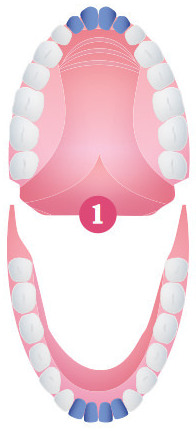
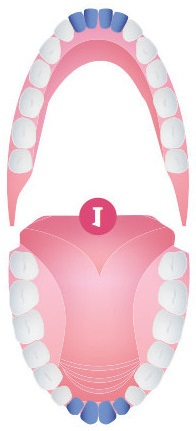
Added info panes
Added info panes

diff --git a/parcial/parcial.html b/parcial/parcial.html
@@ -243,7 +243,38 @@
         requestAnimationFrame(animate);
       }
 
-      function dientesIncisivos() {}
+      function dientesIncisivos() {
+        var Dgeometry = new THREE.PlaneGeometry(24, 53, 1, 1);
+        //create texture
+        var Dtexture = new THREE.TextureLoader().load("./img/incisivos.jpg");
+        var Dmaterial = new THREE.MeshBasicMaterial({
+          map: Dtexture,
+          side: THREE.DoubleSide,
+        });
+        var Dplane = new THREE.Mesh(Dgeometry, Dmaterial);
+        Dplane.position.set(60, 25, -10);
+
+        var Igeometry = new THREE.PlaneGeometry(102, 51, 1, 1);
+        //create texture
+        var Itexture = new THREE.TextureLoader().load(
+          "./img/dataincisivos.jpg"
+        );
+        Itexture.wrapS = THREE.RepeatWrapping;
+        Itexture.repeat.x = 1;
+
+        var Imaterial = new THREE.MeshBasicMaterial({
+          map: Itexture,
+          side: THREE.DoubleSide,
+        });
+        var Iplane = new THREE.Mesh(Igeometry, Imaterial);
+        Iplane.position.set(130, 30, -20);
+
+        scene.add(Dplane);
+        scene.add(Iplane);
+      }
+      function dientesCaninos() {}
+      function dientesPremolares() {}
+      function dientesMolares() {}
 
       init();
 
